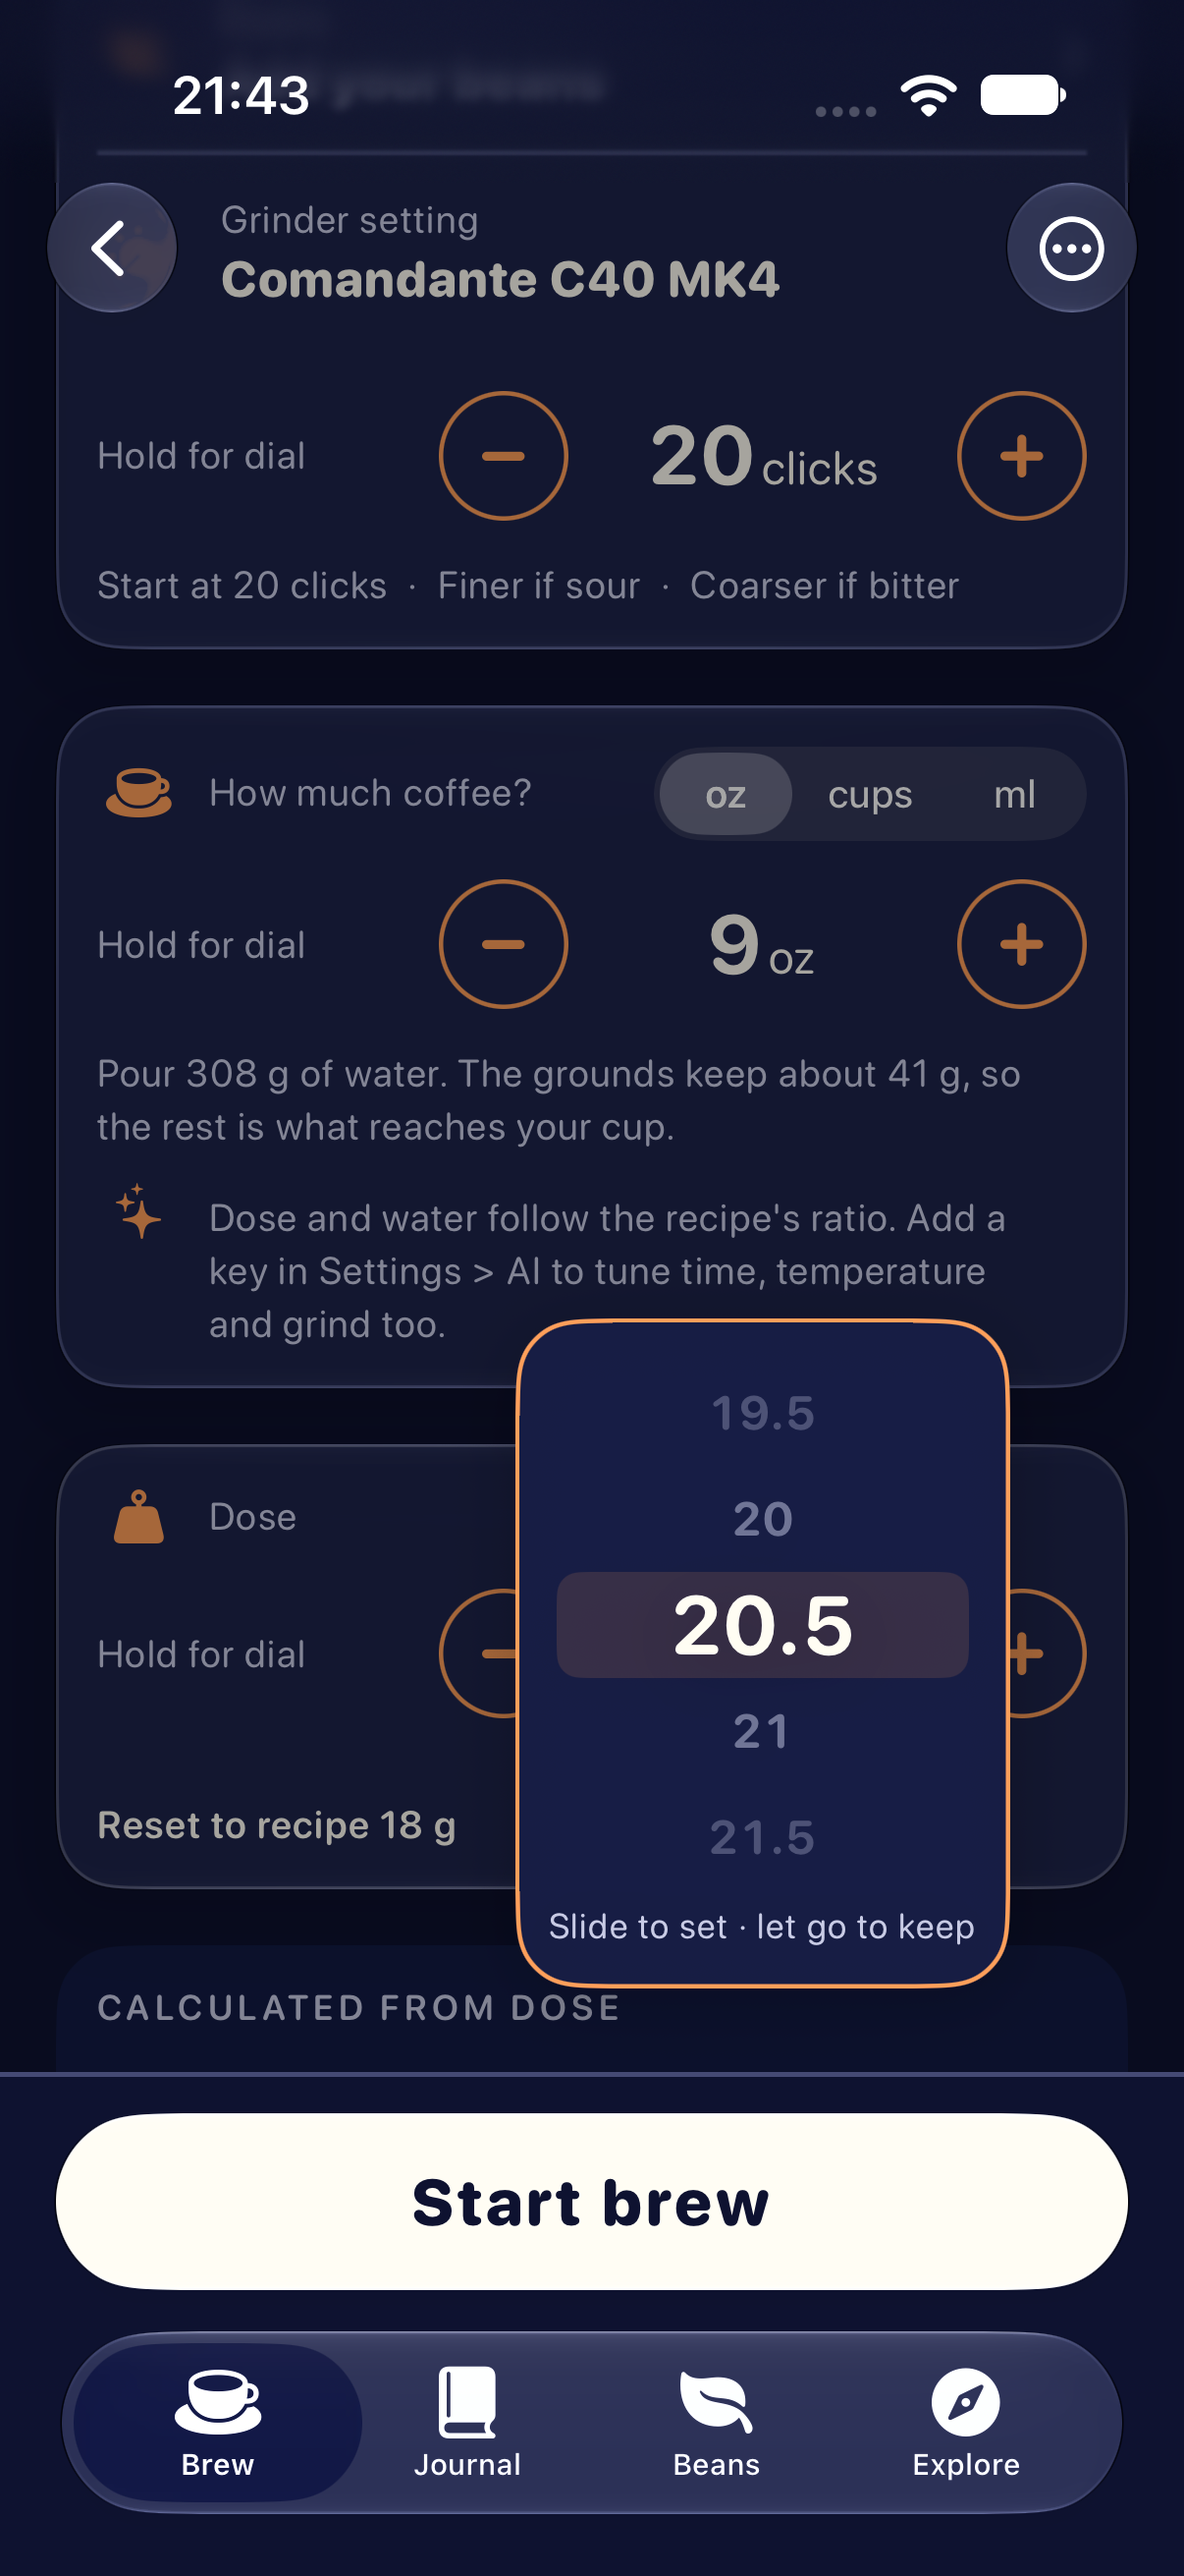
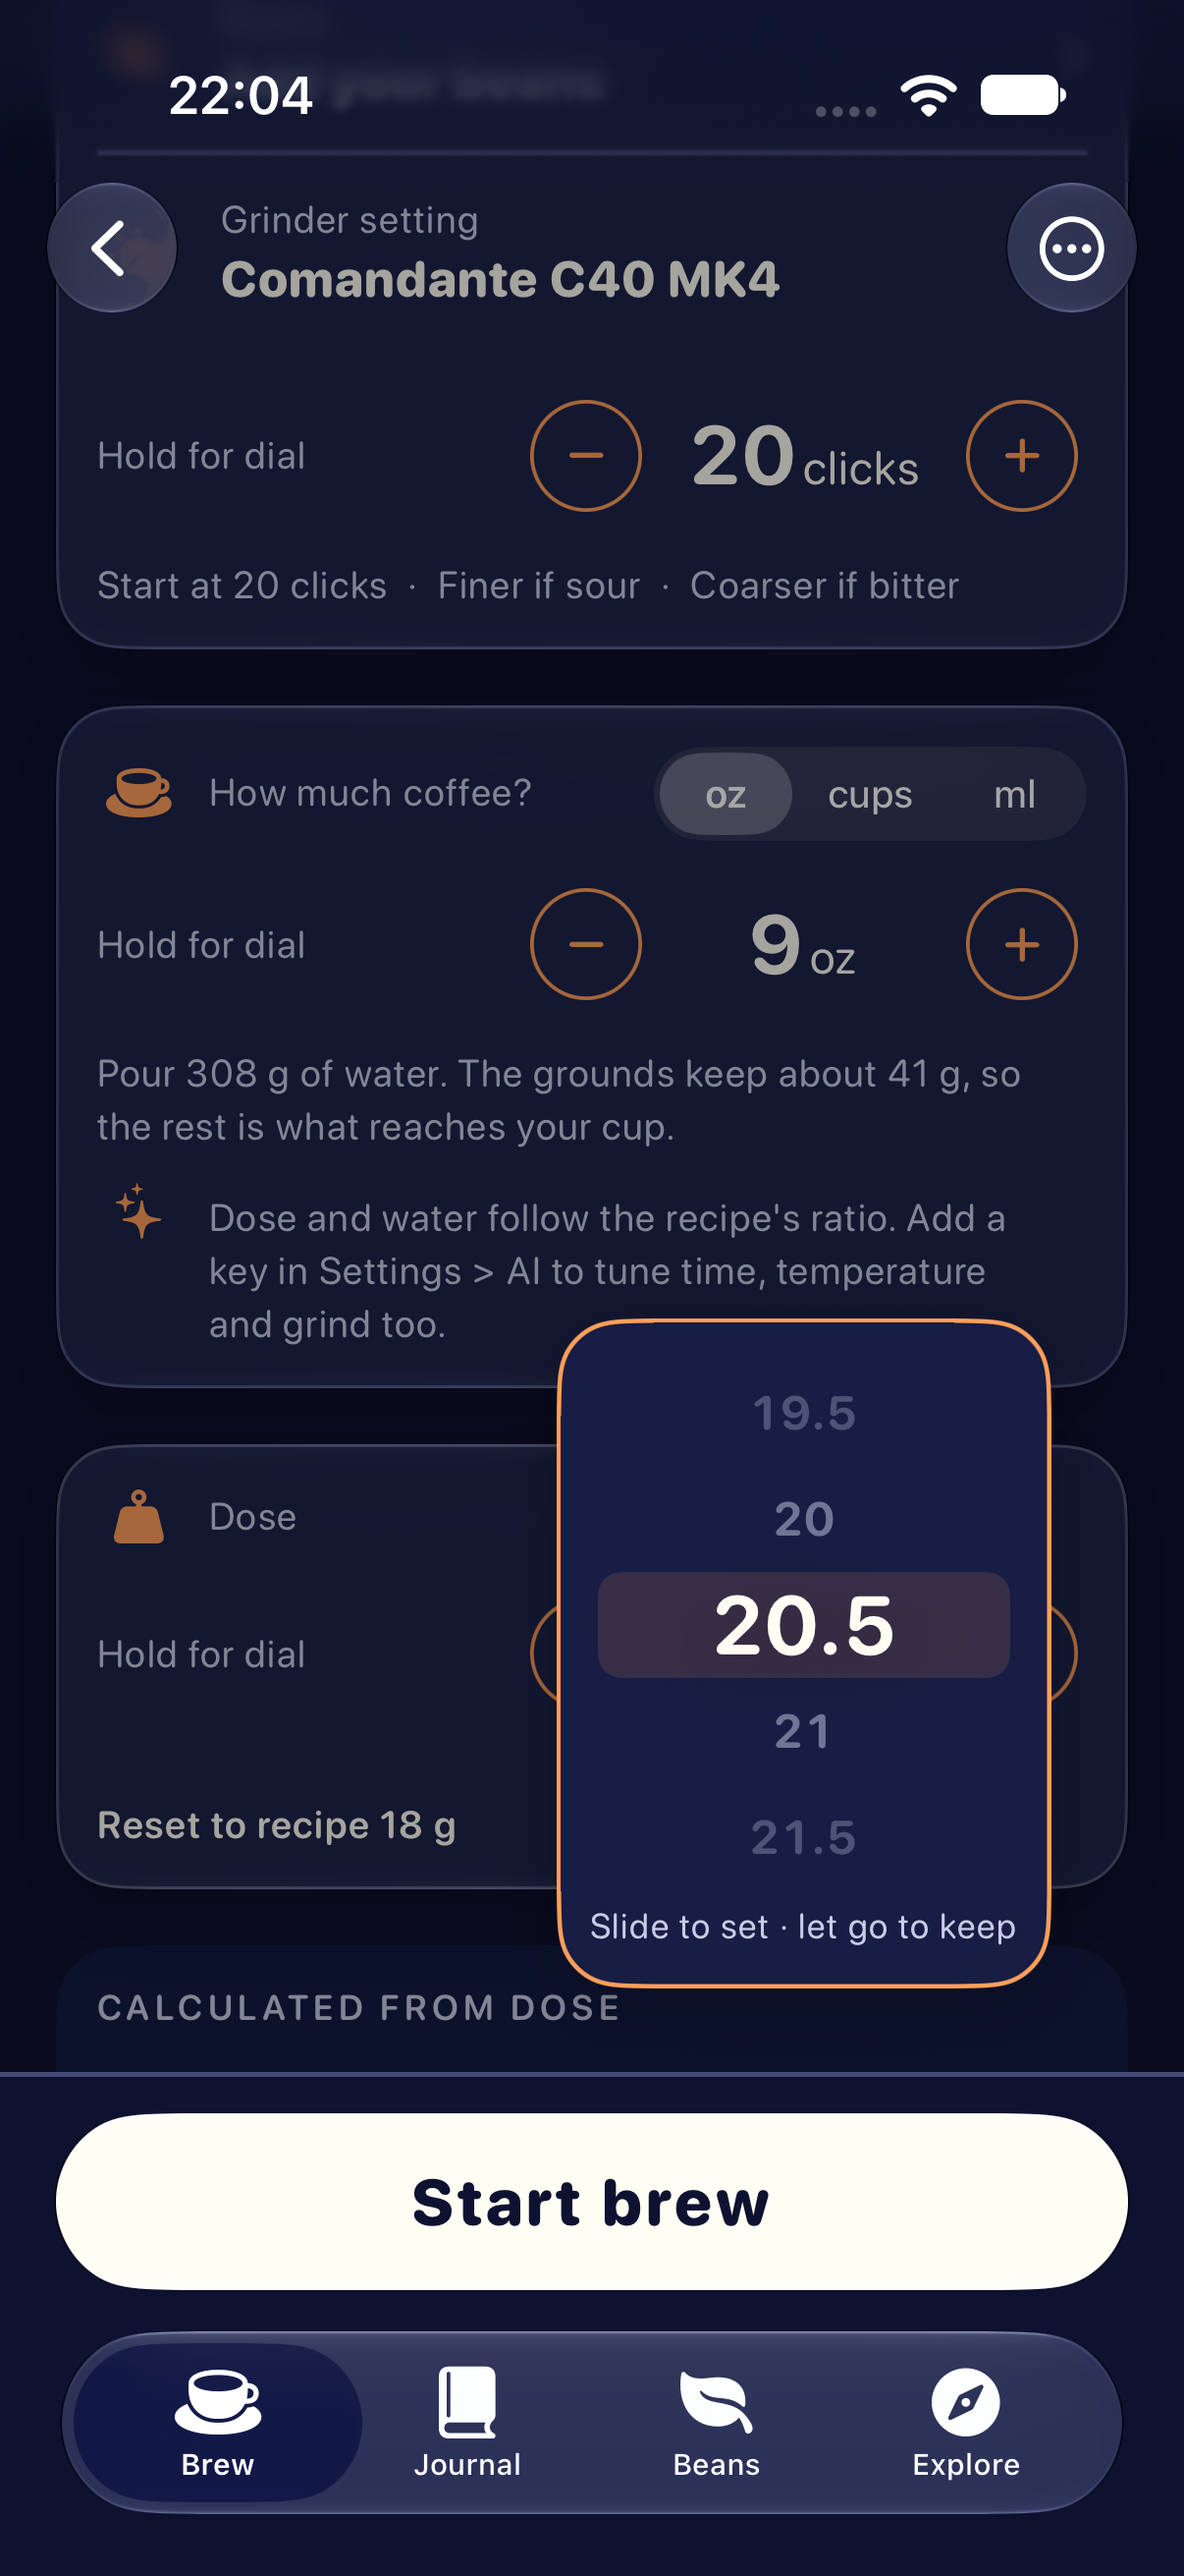
Stepper row: finer − / + and a ~10% narrower control cluster
38 pt rings with a 14 pt semibold glyph and a 1.25 pt stroke, still inside a
44 pt tap target; the number slot is 100 pt and the gaps 2 pt, so − number +
takes 192 pt instead of 216 pt on every stepper row (Start brew and Log a brew).

diff --git a/NextCup/Features/Recipes/DialStepper.swift b/NextCup/Features/Recipes/DialStepper.swift
@@ -20,7 +20,7 @@ struct DialStepper: View {
   private var index: Int { options.firstIndex(of: selection) ?? 0 }
 
   var body: some View {
-    HStack(spacing: DS.Space.sm) {
+    HStack(spacing: 2) {
       Text("Hold for dial").font(.footnote).foregroundStyle(DS.ink2).layoutPriority(1)
       Spacer(minLength: DS.Space.sm)
       stepButton("minus", label: "Decrease \(title)", id: "decrease") { step(by: -1) }
@@ -39,7 +39,7 @@ struct DialStepper: View {
       if let unit { Text(unit).font(DS.Font.mono(.callout)) }
     }
     // One width for every row, so − and + sit at the same place on each.
-    .foregroundStyle(DS.ink).frame(minWidth: 112, minHeight: DS.Size.minTap)
+    .foregroundStyle(DS.ink).frame(minWidth: 100, minHeight: DS.Size.minTap)
     .contentShape(Rectangle())
     .gesture(hold)
     .anchorPreference(key: DialPopupKey.self, value: .bounds) { anchor in
@@ -98,9 +98,13 @@ struct DialStepper: View {
     _ symbol: String, label: String, id: String, action: @escaping () -> Void
   ) -> some View {
     Button(action: action) {
-      Image(systemName: symbol).font(.body.weight(.heavy)).foregroundStyle(DS.accent)
+      // A 38 pt ring with a fine glyph, inside the full 44 pt tap target.
+      Image(systemName: symbol).font(.system(size: 14, weight: .semibold))
+        .foregroundStyle(DS.accent)
+        .frame(width: 38, height: 38)
+        .overlay(Circle().strokeBorder(DS.accent, lineWidth: 1.25))
         .frame(width: DS.Size.minTap, height: DS.Size.minTap)
-        .overlay(Circle().strokeBorder(DS.accent, lineWidth: 1.5))
+        .contentShape(Rectangle())
     }
     .accessibilityLabel(label)
     .accessibilityIdentifier("\(identifier).\(id)")
